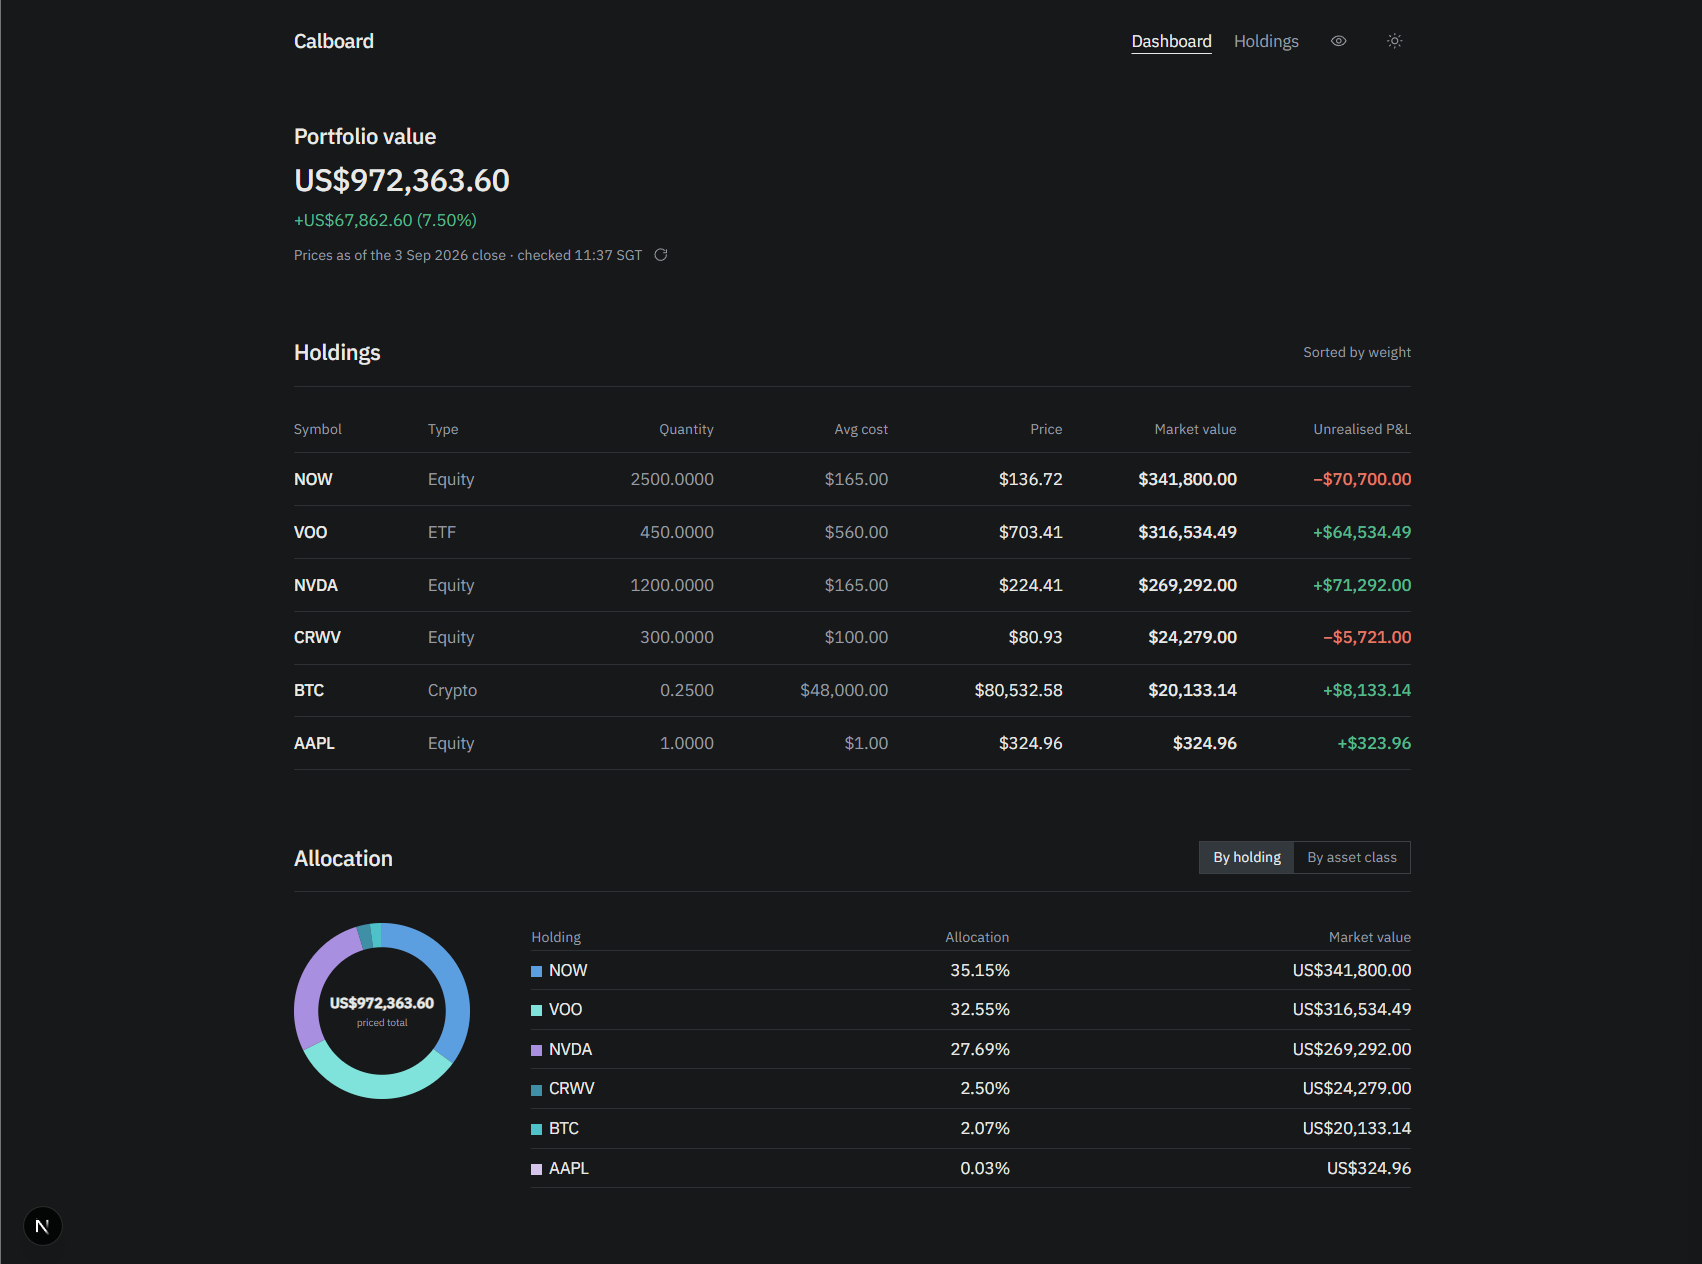
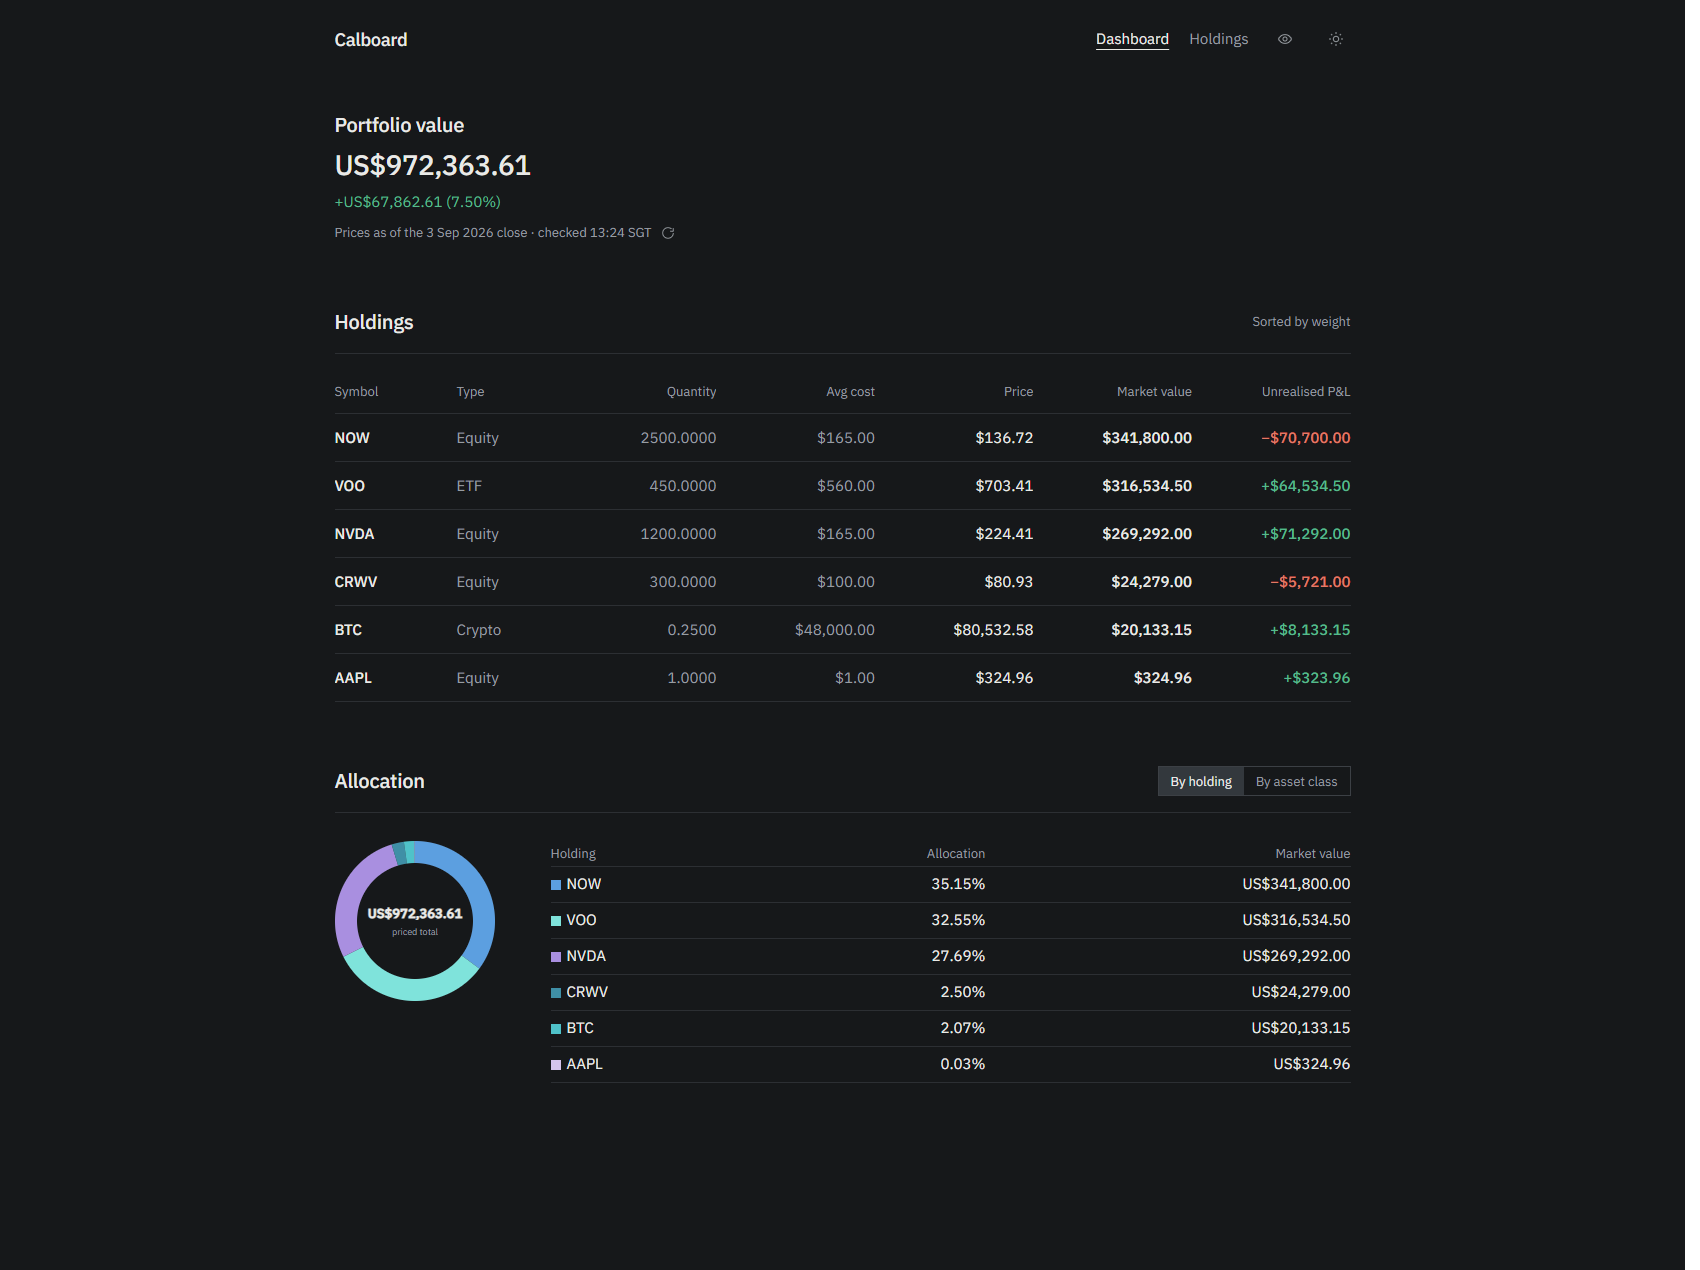
docs: re-capture screenshots on one theme, post-rounding-fix
Both routes were recaptured together after the money-rounding fix, so the
figures agree across the pair — the previous set mixed a dark Dashboard with
a light Holdings and predated the fix.

Adds two more: an unrecognised ticker rejected at entry (validation message
visible, holding not added) and a full test-suite run.

diff --git a/docs/images/README.md b/docs/images/README.md
@@ -1,9 +1,13 @@
 # Screenshots
 
-Referenced from the project README but not yet supplied. Expected files:
+Captured from the running app against the local demo dataset, both routes in
+the same (dark) theme, privacy toggle off.
 
 - `dashboard.png` — the main portfolio Dashboard
 - `holdings-editor.png` — the Holdings editor
+- `holdings-invalid-ticker.png` — an unrecognised ticker rejected at entry:
+  the resolver's message is shown and the holding is not added
+- `test-suite.png` — a full `npm test` run
 
-Drop the PNGs in this directory using those exact filenames and the README's
-image links will resolve.
+`dashboard.png` and `holdings-editor.png` are the two the project README
+links; keep those filenames stable.
